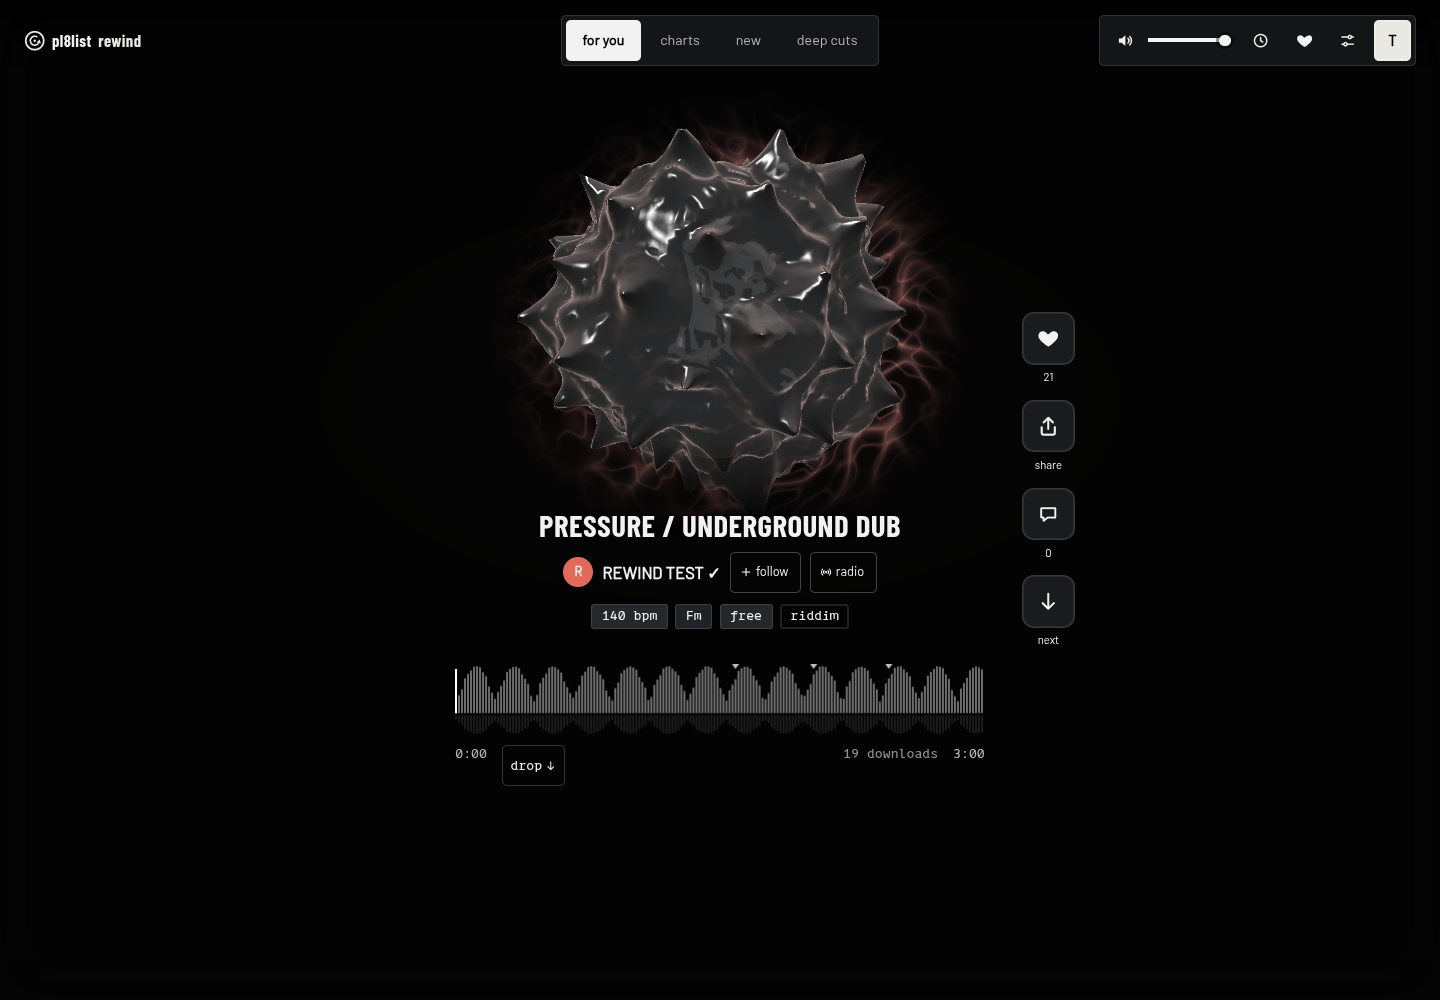
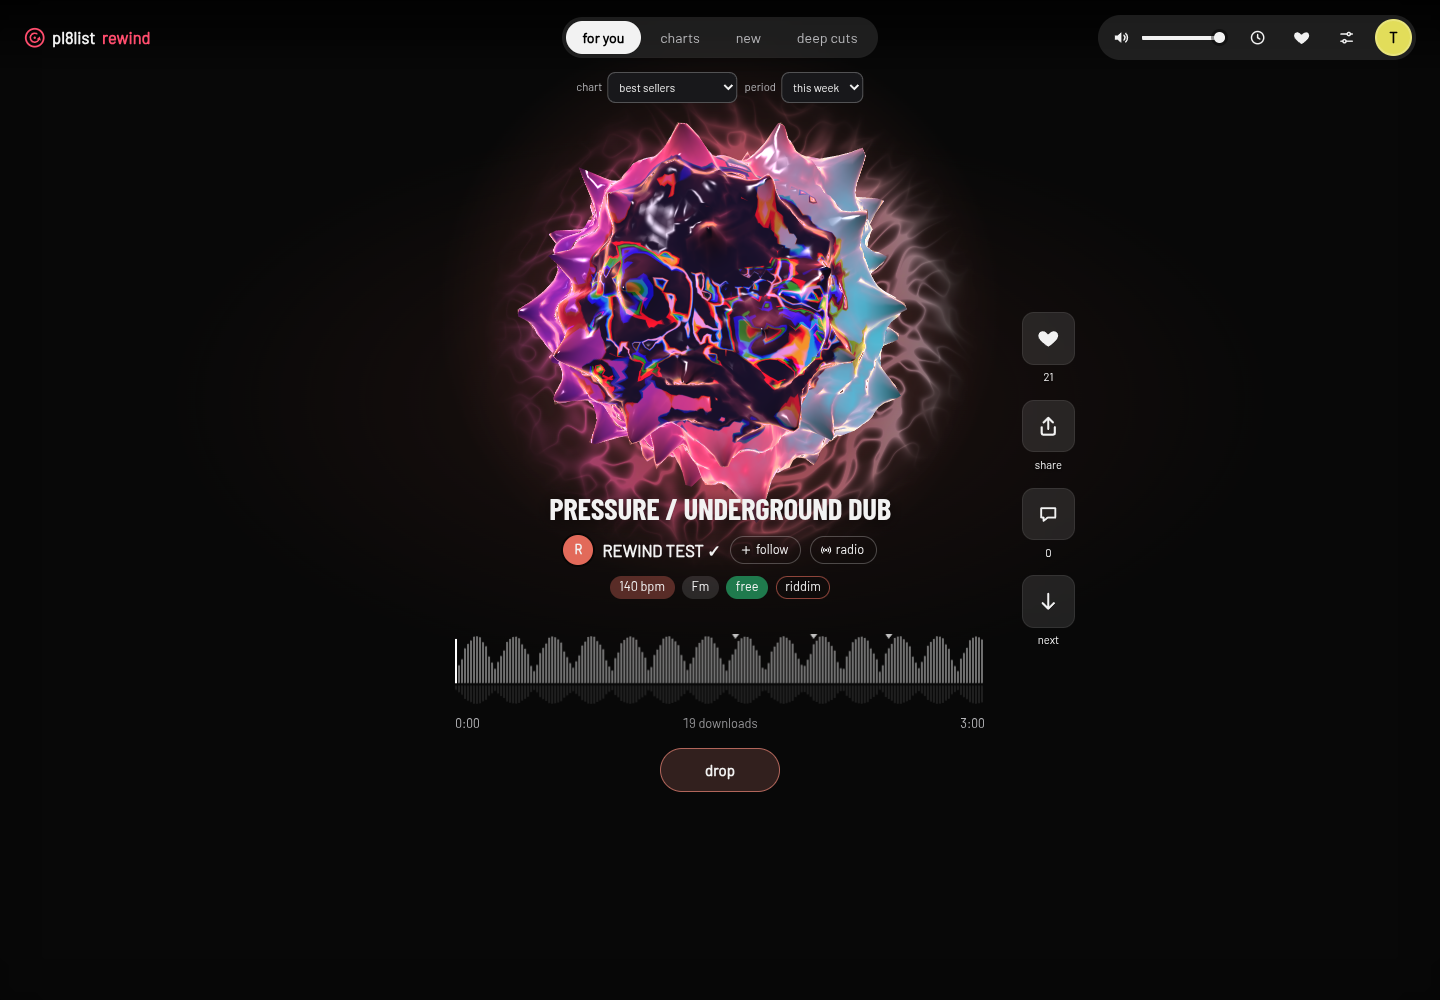
fix(ui issues)

diff --git a/web/src/style.css b/web/src/style.css
@@ -5,21 +5,20 @@
 
 :root {
   color-scheme: dark;
-  --bg: #090a0b;
+  --bg: #000;
   --fg: #f2f2f2;
   --muted: #b5b5b8;
   --faint: #96969a;
-  --accent: #e9e8e3;
-  --danger: #ff8b8b;
-  --panel: #141517;
+  --accent: #ff4d6d;
+  --panel: rgba(18, 18, 20, 0.94);
   --line: #ffffff1f;
   --line-strong: #333;
   --scrim: #000b;
   --glass: rgba(255, 255, 255, 0.1);
   --glass-strong: rgba(255, 255, 255, 0.2);
-  --radius-s: 4px;
-  --radius-m: 6px;
-  --radius-l: 6px;
+  --radius-s: 8px;
+  --radius-m: 14px;
+  --radius-l: 18px;
   --shadow: 0 16px 40px #000a;
   --font: Barlow, system-ui, sans-serif;
   --font-display: "Barlow Condensed", "Arial Narrow", sans-serif;
@@ -50,7 +49,7 @@ button {
   cursor: pointer;
   background: rgba(255, 255, 255, 0.1);
   border: 1px solid rgba(255, 255, 255, 0.15);
-  border-radius: 5px;
+  border-radius: 999px;
   padding: 0.35em 0.9em;
 }
 
@@ -94,7 +93,7 @@ body.zen :is(#discovery-options, #active-filters) { display: none; }
   display: flex;
   gap: 0.2rem;
   padding: 0.2rem;
-  border-radius: 5px;
+  border-radius: 999px;
   background: var(--glass);
   backdrop-filter: blur(12px);
 }
@@ -151,7 +150,7 @@ body.zen :is(#discovery-options, #active-filters) { display: none; }
   appearance: none;
   -webkit-appearance: none;
   background: linear-gradient(90deg, var(--fg) var(--v), #ffffff30 var(--v)) center / 100% 4px no-repeat;
-  border-radius: 5px;
+  border-radius: 999px;
   cursor: pointer;
 }
 #volume-slider::-webkit-slider-thumb {
@@ -251,7 +250,7 @@ body.zen :is(#discovery-options, #active-filters) { display: none; }
   flex: 1 1 10rem;
   min-width: 0;
   padding: 0.55em 0.9em;
-  border-radius: 5px;
+  border-radius: 999px;
   border: 1px solid var(--line-strong);
   background: #111;
 }
@@ -262,7 +261,7 @@ body.zen :is(#discovery-options, #active-filters) { display: none; }
 .modes input { position: absolute; opacity: 0; pointer-events: none; }
 .modes label:has(input) {
   padding: 0.3em 0.9em;
-  border-radius: 5px;
+  border-radius: 999px;
   border: 1px solid #ffffff40;
   font-size: 0.85rem;
   transition: background var(--fast);
@@ -278,7 +277,7 @@ body.zen :is(#discovery-options, #active-filters) { display: none; }
   width: 2.6rem;
   height: 1.5rem;
   margin: 0;
-  border-radius: 5px;
+  border-radius: 999px;
   background: #ffffff26;
   position: relative;
   cursor: pointer;
@@ -439,7 +438,7 @@ button.danger:not(.link) { background: var(--accent); border: none; color: #fff;
   position: absolute;
   inset: -40px;
   background: #111 center / cover no-repeat;
-  filter: blur(40px) brightness(0.16) saturate(0.15);
+  filter: blur(40px) brightness(0.45) saturate(1.3);
 }
 /* Already blurred and darkened (color.ts): a CSS blur over the whole screen would
    be worked out again whenever anything on top of it moves. */
@@ -450,7 +449,7 @@ button.danger:not(.link) { background: var(--accent); border: none; color: #fff;
   inset: 0;
   pointer-events: none;
   background: radial-gradient(55% 40% at 50% 40%, color-mix(in oklab, var(--card-accent) 55%, transparent), transparent 70%);
-  opacity: calc(0.03 + var(--energy) * 0.07);
+  opacity: calc(0.18 + var(--energy) * 0.55);
   will-change: opacity;
 }
 
@@ -506,11 +505,11 @@ button.danger:not(.link) { background: var(--accent); border: none; color: #fff;
 .card.liquid .art::before {
   content: "";
   position: absolute;
-  inset: -25%;
+  inset: -65%;
   background: radial-gradient(closest-side, color-mix(in oklab, var(--card-accent) 83%, transparent), transparent);
   /* Pulses through transform and opacity only, so it never has to be painted again. */
   transform: scale(calc(0.87 + var(--energy) * 0.13));
-  opacity: calc(0.06 + var(--energy) * 0.12);
+  opacity: calc(0.34 + var(--energy) * 0.66);
   will-change: transform, opacity;
   pointer-events: none;
 }
@@ -611,27 +610,27 @@ button.danger:not(.link) { background: var(--accent); border: none; color: #fff;
   gap: 0.3em;
   font-size: 0.75rem;
   padding: 0.2em 0.75em 0.2em 0.55em;
-  border-radius: 5px;
+  border-radius: 999px;
   border: 1px solid #ffffff40;
   background: transparent;
   transition: background var(--fast), border-color var(--fast);
 }
 .pill svg { width: 0.95em; height: 0.95em; }
 .pill:hover { background: var(--glass); }
-.follow.on { background: var(--accent); color: #111; border-color: transparent; }
+.follow.on { background: color-mix(in oklab, var(--card-accent) 25%, transparent); border-color: transparent; }
 
 .chips { display: flex; gap: 0.4rem; flex-wrap: wrap; justify-content: center; }
 .chips span {
   font-size: 0.75rem;
   padding: 0.1em 0.6em;
-  border-radius: 5px;
+  border-radius: 999px;
   background: rgba(255, 255, 255, 0.12);
 }
 .chips .free { background: #1f7a4d; }
 .chips .new { background: var(--fg); color: #000; font-weight: 700; }
-.chips span:first-child { background: #252729; }
+.chips span:first-child { background: color-mix(in oklab, var(--card-accent) 35%, transparent); }
 .chips .preview { background: #6a4b16; }
-.chips .tag { background: transparent; box-shadow: inset 0 0 0 1px var(--line); }
+.chips .tag { background: transparent; box-shadow: inset 0 0 0 1px color-mix(in oklab, var(--card-accent) 60%, transparent); }
 
 .desc {
   margin: 0;
@@ -791,7 +790,7 @@ body.no-wave-comments :is(.wave-comments, .wc-bubble), body.zen :is(.wave-commen
   margin-right: auto;
   padding: 0.05em 0.6em;
   border: 1px solid var(--line-strong);
-  border-radius: 5px;
+  border-radius: 999px;
   background: none;
   color: var(--fg);
   font-size: inherit;
@@ -889,7 +888,7 @@ body.no-wave-comments :is(.wave-comments, .wc-bubble), body.zen :is(.wave-commen
   bottom: calc(max(1rem, env(safe-area-inset-bottom)) + 3.4rem);
   transform: translate(-50%, 1rem);
   padding: 0.6em 1.1em;
-  border-radius: 5px;
+  border-radius: 999px;
   background: #222e;
   border: 1px solid #ffffff22;
   font-size: 0.9rem;
@@ -1010,7 +1009,7 @@ body.zen #up-next { display: none; }
 }
 .start-welcome a { color: inherit; }
 /* A guest's account button says what it is for. */
-.avatar-btn.guest { width: auto; padding: 0 0.9rem; border-radius: 5px; font-weight: 600; font-size: 0.85rem; color: var(--fg); }
+.avatar-btn.guest { width: auto; padding: 0 0.9rem; border-radius: 999px; font-weight: 600; font-size: 0.85rem; color: var(--fg); }
 
 /* Radio sheet: a bottom sheet on phones, a centred box elsewhere. */
 #station {
@@ -1144,7 +1143,10 @@ button.primary:disabled { opacity: 0.35; cursor: default; }
   display: grid;
   place-items: center;
   padding: 1rem;
-  background: var(--bg);
+  background:
+    radial-gradient(60rem 40rem at 20% 10%, #ff4d6d33, transparent 60%),
+    radial-gradient(50rem 40rem at 90% 90%, #4d6dff2e, transparent 60%),
+    #050507;
 }
 
 .login-box {
@@ -1225,7 +1227,7 @@ button.primary:disabled { opacity: 0.35; cursor: default; }
     width: 2.6rem;
     height: 0.3rem;
     margin: 0.55rem auto 0;
-    border-radius: 5px;
+    border-radius: 999px;
     background: #fff5;
   }
   .content { width: calc(100vw - 2rem); margin-bottom: 6.5rem; gap: 0.6rem; }
@@ -1269,7 +1271,7 @@ body.zen .content { gap: 0.3rem; }
   .bar-end {
     gap: 0.15rem;
     padding: 0.25rem;
-    border-radius: 5px;
+    border-radius: 999px;
     background: var(--glass);
     backdrop-filter: blur(12px);
   }
@@ -1333,38 +1335,47 @@ body.zen .content { gap: 0.3rem; }
   .wc-bubble::before { display: none; }
 }
 
-/* Monochrome soundsystem surfaces. Keep the controls still around the sculpture. */
-.logo, .start-logo, .login-box h1 { font-family: var(--font-display); font-weight: 700; letter-spacing: 0.025em; }
-.title { font-family: var(--font-display); font-weight: 700; line-height: 1.05; letter-spacing: 0.015em; }
-.time, .counts, .chips, .station-kicker, .up-next-label { font-family: ui-monospace, monospace; font-variant-numeric: tabular-nums; }
-#mode-tabs, .bar-end, #up-next { background: var(--panel); border: 1px solid var(--line); backdrop-filter: none; }
-button { min-height: 2.75rem; }
-button:hover { border-color: #737578; }
-button:active { filter: brightness(0.85); }
-button:disabled { cursor: default; opacity: 0.45; }
-.icon-btn { min-width: 2.75rem; min-height: 2.75rem; }
-.chips span { border-radius: 3px; background: #202225; color: var(--fg); border: 1px solid var(--line); }
-.chips span.free, .chips span.new { background: #252729; color: var(--fg); }
-.act .ring { background: #191b1d; border: 1px solid var(--line); backdrop-filter: none; }
-.art { box-shadow: 0 12px 35px #0009, 0 0 0 1px #ffffff24; scale: 1; }
-/* Fade the canvas spill before the title or navigation, including the caustics. */
-.liquid-canvas { mask-image: linear-gradient(transparent 2%, #000 18% 72%, transparent 88%); }
-.card.liquid .art { margin-bottom: 2.8rem; }
-.sheet, .station-box { box-shadow: 0 20px 80px #000b; }
-.track-row { padding-block: 0.7rem; }
-.login-box button[type=submit], .help-box button { color: #111; }
-.link.danger, #login-error { color: var(--danger); }
-button.danger:not(.link) { background: var(--danger); color: #111; }
-#login input { border-radius: var(--radius-s); }
+/* Color belongs to the artist; controls keep their own clear spacing. */
+.title { font-family: var(--font-display); line-height: 1.08; }
+.card.liquid .art { margin-bottom: 2rem; }
+.byline { gap: 0.6rem; row-gap: 0.65rem; }
+.bar-end { gap: 0.45rem; }
+.bar-end .icon-btn, .avatar-btn { flex-shrink: 0; border-radius: 50%; }
+#discovery-options { top: 4.8rem; }
+#active-filters { top: 7.8rem; }
+.time { display: grid; grid-template-columns: minmax(0, 1fr) auto minmax(0, 1fr); align-items: center; gap: 0.75rem 0.5rem; }
+.time .cur { grid-column: 1; grid-row: 1; justify-self: start; }
+.time .counts { grid-column: 2; grid-row: 1; text-align: center; overflow-wrap: anywhere; }
+.time .dur { grid-column: 3; grid-row: 1; justify-self: end; }
+.time .to-drop {
+  grid-column: 1 / -1; grid-row: 2; justify-self: center;
+  margin: 0.25rem 0 0; min-width: 8rem; min-height: 44px;
+  justify-content: center; padding: 0.5rem 1.5rem;
+  font: 600 1rem/1.2 var(--font); border-radius: 999px;
+  background: color-mix(in oklab, var(--card-accent) 18%, #111);
+  border-color: color-mix(in oklab, var(--card-accent) 65%, #555);
+  color: var(--fg);
+}
+.time .to-drop:hover { background: color-mix(in oklab, var(--card-accent) 35%, #111); color: var(--fg); }
 @media (max-width: 640px) {
-  #mode-tabs button { padding-inline: 0.7em; }
-  .content { margin-top: 3rem; }
+  .bar-end { gap: 0.45rem; }
+  .bar-end .icon-btn, .avatar-btn { width: 2.75rem; height: 2.75rem; }
   .art { width: min(14rem, 29dvh, 58vw); }
-  .card.liquid .art { margin-bottom: 1.8rem; }
-  .actions { gap: 0.5rem; }
+  .card.liquid .art { margin-bottom: 1.5rem; }
+  .content { margin-top: 2.5rem; }
+  #discovery-options { top: calc(max(0.6rem, env(safe-area-inset-top)) + 6.4rem); gap: 0.75rem; }
+  #active-filters { top: calc(max(0.6rem, env(safe-area-inset-top)) + 9.2rem); }
 }
 @media (max-width: 640px) and (max-height: 700px) {
-  .art { width: min(10rem, 22dvh, 48vw); }
-  .card.liquid .art { margin-bottom: 1.2rem; }
+  .art { width: min(9rem, 21dvh, 48vw); }
+  .card.liquid .art { margin-bottom: 1rem; }
   .content { gap: 0.25rem; }
+}
+/* Chart selectors occupy a third header row on phones. */
+@media (max-width: 640px) {
+  body:has(#discovery-options:not([hidden])) .content { margin-top: 7rem; }
+  body:has(#discovery-options:not([hidden])) .art { width: min(12rem, 25dvh, 52vw); }
+}
+@media (max-width: 640px) and (max-height: 700px) {
+  body:has(#discovery-options:not([hidden])) .art { width: min(8rem, 18dvh, 44vw); }
 }

diff --git a/web/src/blob/shaders.ts b/web/src/blob/shaders.ts
@@ -265,25 +265,22 @@ void main() {
   // Looking through the surface bends the artwork like water does.
   vec2 bend = n.xy * (0.22 + 0.1 * uDrop) * uMorph;
   vec2 uv = 0.5 + vec2(vObj.x, -vObj.y) * 0.48 - vec2(bend.x, -bend.y) * 0.5;
-  vec2 split = n.xy * (0.001 + 0.003 * uKick + 0.002 * uSnare) * uMorph;
+  vec2 split = n.xy * (0.008 + 0.025 * uKick + 0.015 * uSnare + 0.01 * uGrowl * uBass) * uMorph;
   // Turned sideways the projection smears; blur it into flowing colour instead.
   float blur = 4.0 * pow(1.0 - abs(vObj.z), 3.0) * uMorph;
   vec3 art = vec3(texture(uArt, uv + split, blur).r, texture(uArt, uv, blur).g, texture(uArt, uv - split, blur).b);
-  float luminance = dot(art, vec3(0.2126, 0.7152, 0.0722));
-  vec3 trace = mix(vec3(luminance), art, 0.22);
-  // Preserve the flat artwork during entry; blackened metal takes over as it morphs.
-  art = mix(art, vec3(0.035, 0.038, 0.042) + trace * 0.22, uMorph);
+  art = mix(art, smoothstep(0.0, 1.0, art), 0.6 * uDrop);
 
   vec3 light = normalize(vec3(-0.5, 0.7, 0.6));
   float spec = pow(max(dot(n, normalize(light + v)), 0.0), mix(40.0, 140.0, uMetal)) * mix(0.35, 0.8, uMetal);
   // The hue sways around the accent but never leaves it, so the drop stays in the
   // card's colours.
-  vec3 rim = hueRotate(mix(vec3(0.72), uAccent, 0.16), uHue + uIri * (fres + 0.5 * sin(uTime * 0.3)));
+  vec3 rim = hueRotate(uAccent, uHue + uIri * (fres + 0.5 * sin(uTime * 0.3)));
   rim = mix(rim, vec3(1.0, 0.35, 0.1), uHeat * 0.6);
   // Oil-slick fringes: each channel cycles at its own phase across the edge, worn
   // over the accent, more for iridescent tracks.
   vec3 slick = 0.5 + 0.5 * cos(6.2831853 * (fres * 1.6 + vec3(0.0, 0.33, 0.67) + uTime * 0.05));
-  rim = mix(rim, rim * 0.4 + slick * length(rim) * 0.75, 0.035 + 0.08 * uIri);
+  rim = mix(rim, rim * 0.4 + slick * length(rim) * 0.75, 0.25 + 0.5 * uIri);
   // The fresnel per channel, red reaching in further than blue: a lens fringe.
   float nv = 1.0 - max(dot(n, v), 0.0);
   vec3 fresC = vec3(nv * nv * nv * mix(1.0, nv, -0.35), fres, nv * nv * nv * mix(1.0, nv, 0.35));
@@ -293,13 +290,13 @@ void main() {
   // Out on a spike the liquid turns to ink, like ferrofluid: the artwork darkens and
   // the gloss takes over.
   vec3 col = art * mix(1.0, 0.45, fres * uMorph) * (1.0 - 0.6 * vSpike);
-  col += rim * fresC * (0.3 + 0.35 * uKick + 0.15 * uDrop + 0.12 * uBass) * uMorph;
-  col += mix(rim, vec3(1.0), 0.5) * edge * (0.15 + 0.45 * uKick + 0.25 * uDrop) * uMorph;
+  col += rim * fresC * (0.65 + 0.9 * uKick + 0.5 * uDrop + 0.5 * uBass) * uMorph;
+  col += mix(rim, vec3(1.0), 0.5) * edge * (0.3 + 1.2 * uKick + 0.8 * uDrop) * uMorph;
   col += spec * (1.0 + 0.8 * vSpike) * uMorph;
   // Gloss: a dark room lit by the accent from above, and one soft window. They stay
   // put while the surface turns under them, which is what makes a spin read.
   vec3 r = reflect(-v, n);
-  vec3 env = mix(vec3(0.015), mix(vec3(0.5), uAccent * 0.5, 0.12), pow(smoothstep(-0.4, 1.0, r.y), 2.0));
+  vec3 env = mix(vec3(0.015), uAccent * 0.5, pow(smoothstep(-0.4, 1.0, r.y), 2.0));
   env += 0.5 * smoothstep(0.92, 0.985, dot(r, normalize(vec3(-0.5, 0.7, 0.5))));
   col += env * (0.1 + 0.5 * fres + 0.5 * vSpike) * uMorph;
   // The icon sits on a disc of frosted glass, painted onto the surface so it turns

diff --git a/web/index.html b/web/index.html
@@ -318,7 +318,7 @@
           <canvas class="wave" aria-hidden="true"></canvas>
           <span class="wave-tip"></span>
         </div>
-        <div class="time"><span class="cur">0:00</span><button type="button" class="to-drop" title="jump to the next marked drop (d)">drop <svg><use href="#i-down"/></svg></button><span class="counts"></span><span class="dur"></span></div>
+        <div class="time"><span class="cur">0:00</span><button type="button" class="to-drop" title="jump to the next marked drop (d)">drop</button><span class="counts"></span><span class="dur"></span></div>
       </div>
       <nav class="actions">
         <button type="button" class="act like" title="like (l)" aria-label="like"><span class="ring"><svg><use href="#i-heart"/></svg></span><span class="n saves"></span></button>

diff --git a/web/src/main.ts b/web/src/main.ts
@@ -1319,7 +1319,7 @@ function signedIn(user: User, pl8list?: Pl8Status): void {
   startEl.classList.remove("welcome");
   accountBtn.textContent = guest ? "sign in" : (user.name || user.handle)[0]?.toUpperCase() ?? "?";
   accountBtn.classList.toggle("guest", guest);
-  accountBtn.style.backgroundColor = guest ? "var(--glass-strong)" : "var(--accent)";
+  accountBtn.style.backgroundColor = guest ? "var(--glass-strong)" : accentForName(user.handle);
   accountBtn.title = guest ? "listening as a guest: sign in, or forget me" : `@${user.handle}`;
   $("account-handle").textContent = guest ? "listening as a guest" : `@${user.handle}`;
   $("delete-handle").textContent = user.handle;

diff --git a/web/src/cards.ts b/web/src/cards.ts
@@ -283,7 +283,7 @@ export class Card {
     ctx.clearRect(0, 0, w, h);
     const data = this.track.waveform || [];
     const max = Math.max(1, ...data);
-    const accent = getComputedStyle(canvas).getPropertyValue("--accent").trim() || "#e9e8e3";
+    const accent = getComputedStyle(canvas).getPropertyValue("--card-accent").trim() || "#ff4d6d";
     const base = Math.round(h * (1 - MIRROR)) - 1;
     const below = h - base - 2;
     const level = (i: number) => (data.length ? data[Math.floor((i / bars) * data.length)] / max : 0.15);

diff --git a/web/src/color.ts b/web/src/color.ts
@@ -50,8 +50,8 @@ async function compute(src: string): Promise<string | null> {
 
 const BACKDROP = 64; // px square; it is shown blurred, so this is plenty
 const BLUR = 2; // px each side, per box blur pass at that size
-const DIM = 0.16;
-const SATURATE = 0.15;
+const DIM = 0.45;
+const SATURATE = 1.3;
 
 /// The card's background from the artist image, as a data URL: cropped square,
 /// blurred and darkened here, once, as `.bg`'s CSS filter would do on every frame.

diff --git a/web/src/blob/caustics.ts b/web/src/blob/caustics.ts
@@ -141,7 +141,7 @@ export class Caustics {
     gl.uniform1f(u.uHue, look.hue);
     gl.uniform1f(u.uIri, look.iri);
     gl.uniform1f(u.uHeat, look.heat);
-    gl.uniform1f(u.uAmount, c.amount * look.caustics * 0.22);
+    gl.uniform1f(u.uAmount, c.amount * look.caustics * 0.65);
     gl.disable(gl.DEPTH_TEST);
     gl.depthMask(false);
     gl.bindVertexArray(this.vao);

diff --git a/docs/redesign/README.md b/docs/redesign/README.md
@@ -1,9 +1,11 @@
-# Monochrome visual pass
+# Artwork-driven visual pass
 
-These screenshots use a synthetic track and deterministic audio features in Chromium, not live pl8list playback. They demonstrate desktop (1440×1000), mobile (390×844), short mobile (390×667), settings and login styling.
+These screenshots use a synthetic track, colorful generated SVG artwork and deterministic audio features in Chromium, not live pl8list playback. They demonstrate desktop (1440×1000), mobile (390×844), short mobile (390×667), settings and login styling.
 
 Validated: Bun frozen-lockfile installation, TypeScript check, production build, local font loading, WebGL shader creation/rendering, opening and dismissing settings, and a sustained synthetic drop whose one-shot envelope decays without retriggering. Chromium reported no page errors.
 
 Still requires real-device validation: real-track onset timing, touch gestures, GPU context restoration, reduced-motion transitions, audio fallback on iOS, and comparative frame-time/battery measurements. Docker's Bun build stage was updated but the full container image was not built.
 
 Run the frontend with `cd web && bun install --frozen-lockfile && bun run dev`. Build with `bun run build`.
+
+The chromatic artwork material, artist accents and rounded controls have been restored following visual feedback. The drop button has a centered row beneath the waveform, no arrow, and a 44px minimum height. Chart selectors have dedicated clearance on short mobile screens.

diff --git a/README.md b/README.md
@@ -45,7 +45,7 @@ Not affiliated with pl8list.
 
 ## Screenshots
 
-The [monochrome redesign previews](docs/redesign/README.md) show the current visual treatment using a synthetic track. The live-playback captures below predate that pass.
+The [updated design previews](docs/redesign/README.md) show the current visual treatment using a synthetic track. The live-playback captures below predate that pass.
 
 ![Feed on desktop](docs/feed-desktop.png)
 
